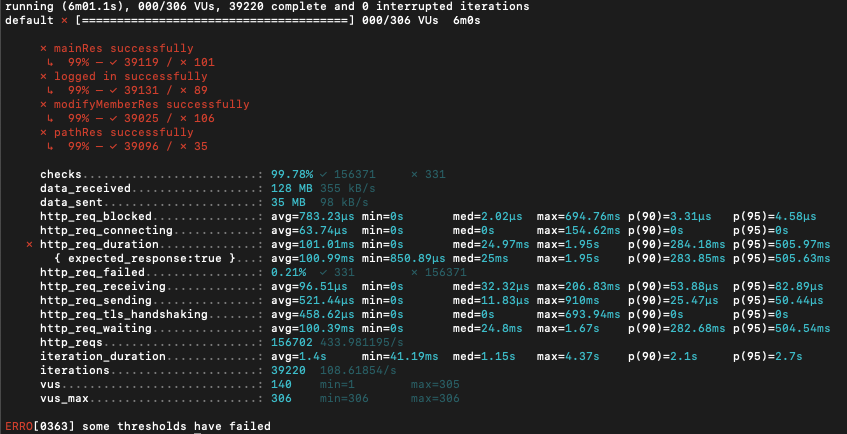
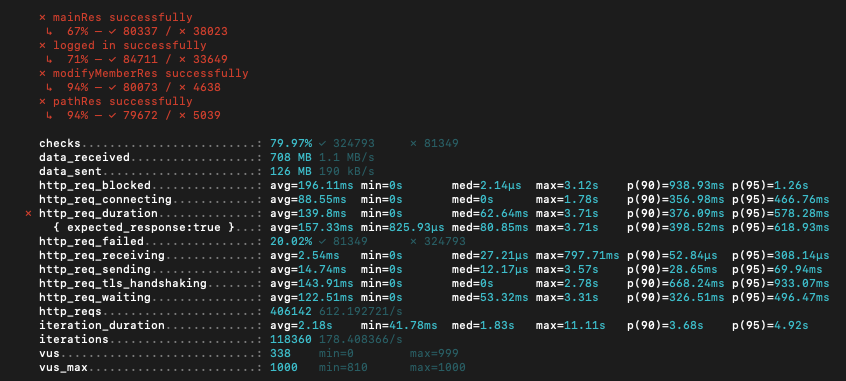
feat: stress Test 조건 변경 후 테스트 진행

Changed region(s): [[0.0, 0.0, 0.9835, 1.0], [0.4917, 0.3753, 0.5532, 0.4042]]

diff --git a/src/k6/script/stress.js b/src/k6/script/stress.js
@@ -4,11 +4,11 @@ import { check, group, sleep, fail } from 'k6';
 export let options = {
     stages: [
         { duration: '1m', target: 51 },
-        { duration: '1m', target: 102 },
-        { duration: '1m', target: 153 },
-        { duration: '1m', target: 204 },
-        { duration: '1m', target: 255 },
-        { duration: '1m', target: 306 }
+        { duration: '2m', target: 102 },
+        { duration: '2m', target: 306 },
+        { duration: '2m', target: 500 },
+        { duration: '2m', target: 700 },
+        { duration: '2m', target: 1000 }
     ],
 
     thresholds: {
